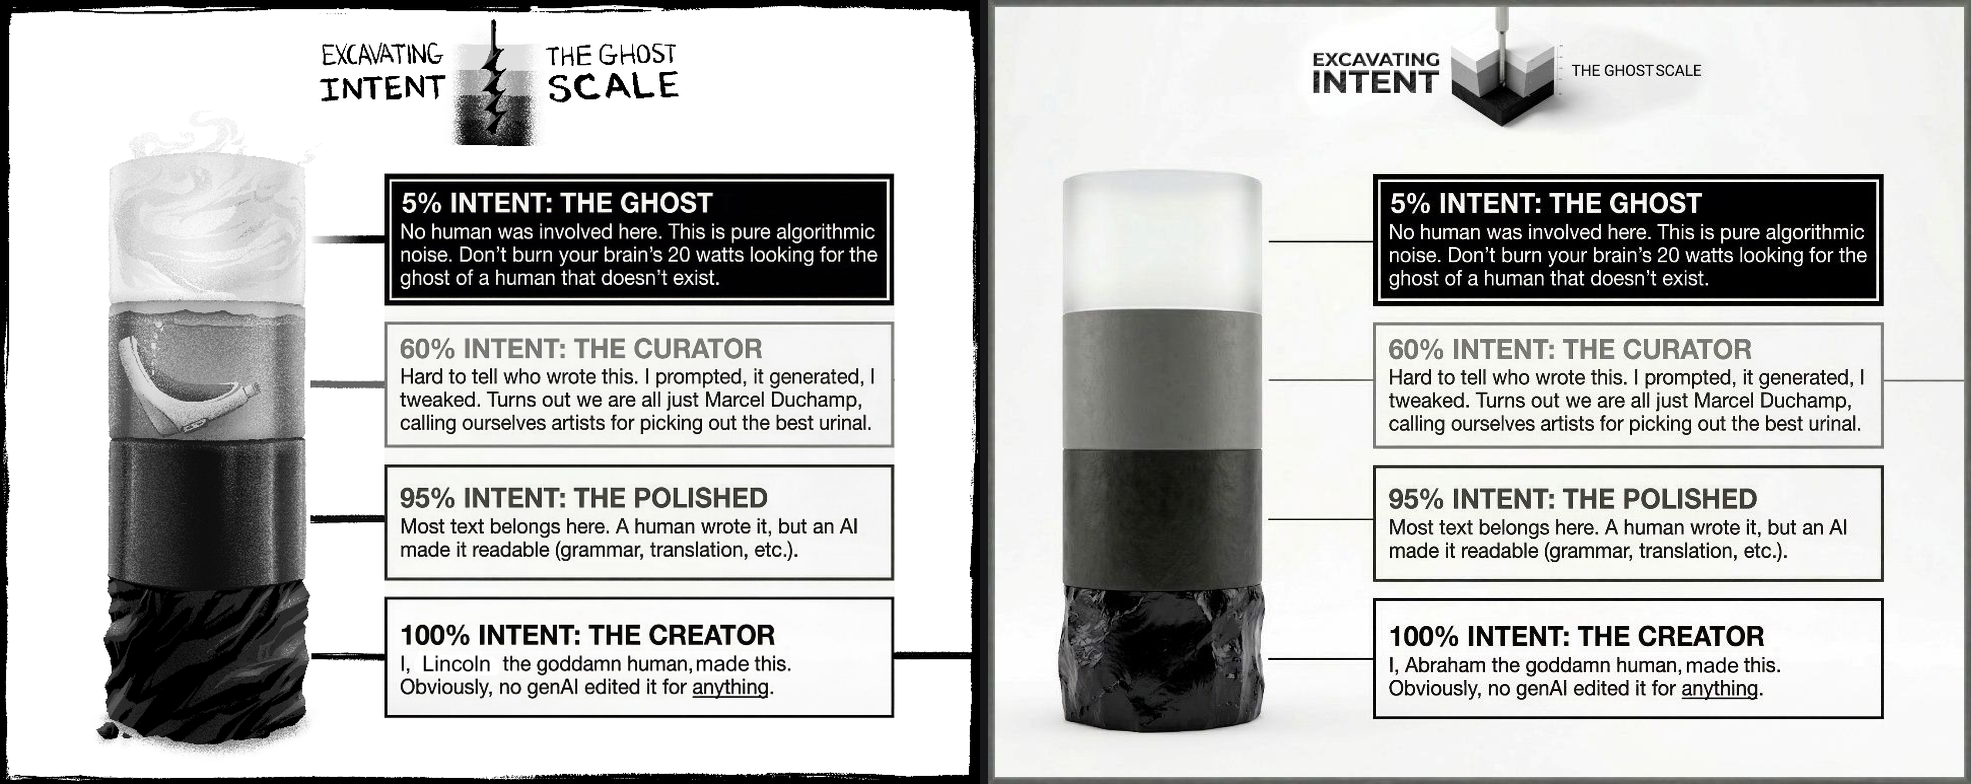
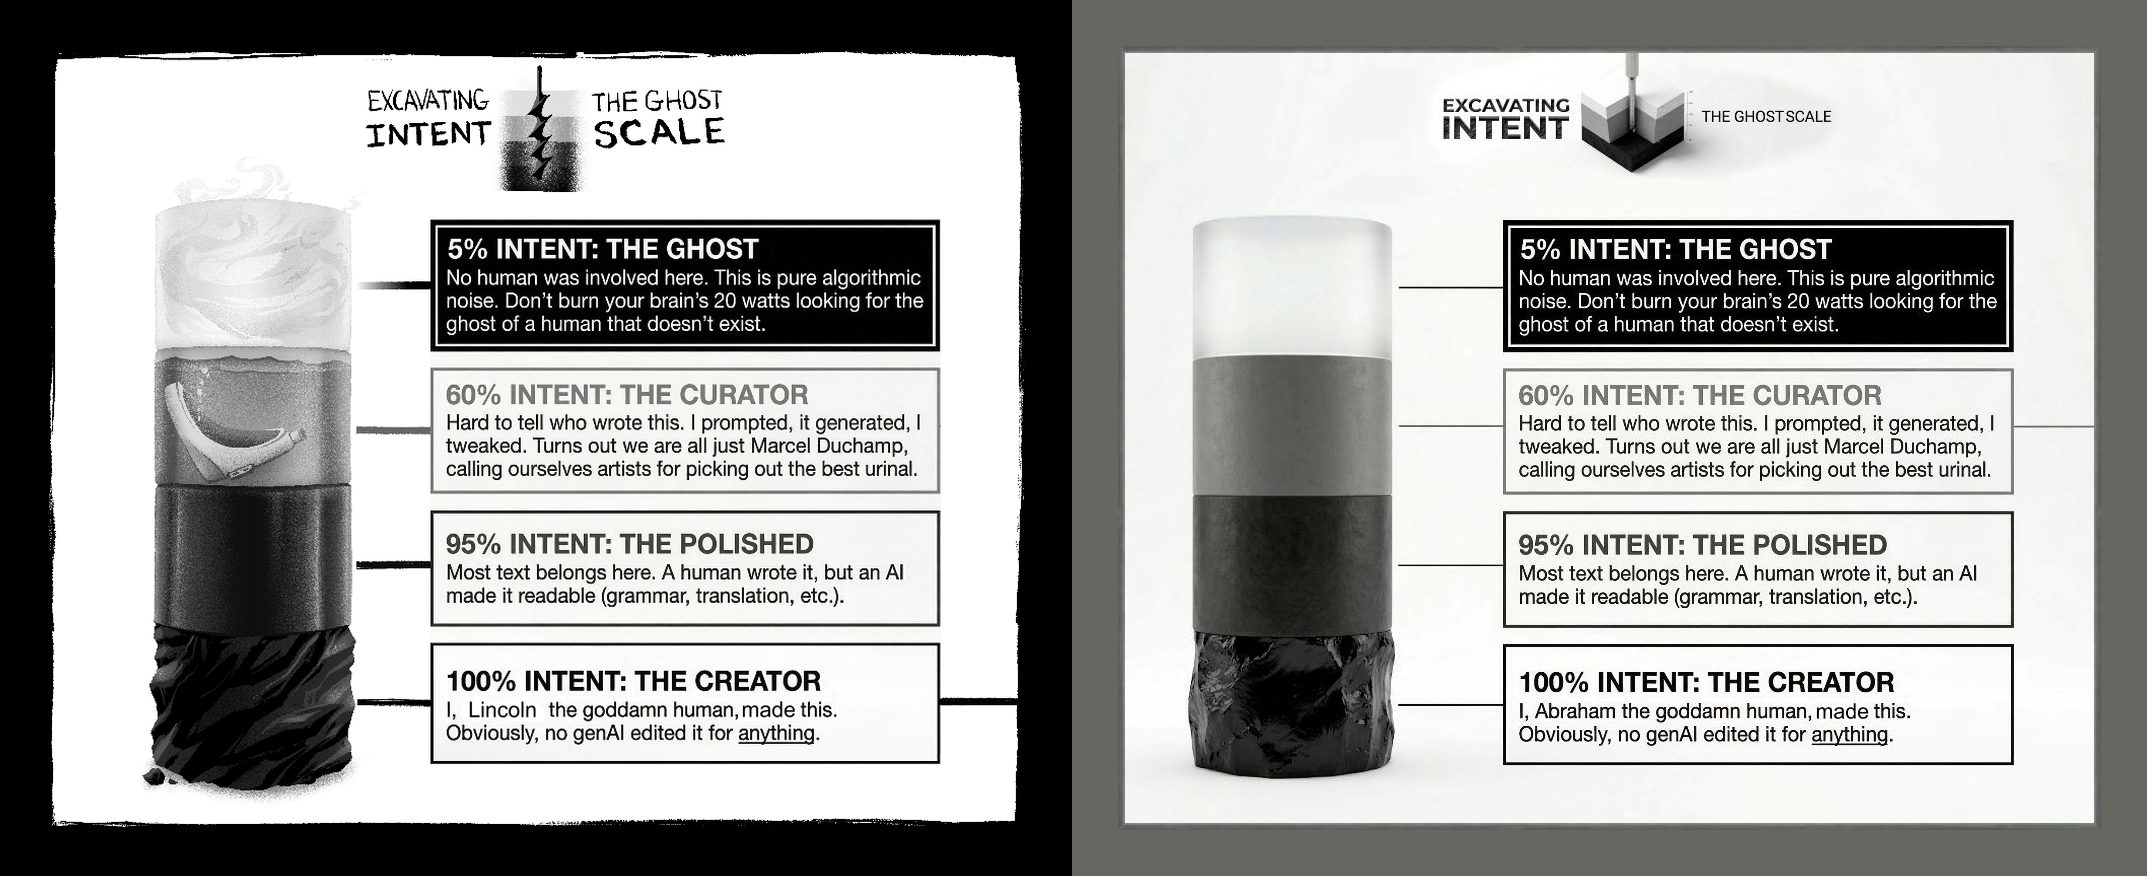
Thicker frames on the Ghost Scale pair, and point the citation at main
Black around the drawn panel, grey around the rendered one, both at the same
thickness because the sources are scaled to a common content height BEFORE the
borders go on. They meet in the middle with no gutter, so black against grey is
itself the division.

diff --git a/scripts/make_ghost_scale_pair.py b/scripts/make_ghost_scale_pair.py
@@ -25,34 +25,50 @@ LEFT = FIG / "Ghostscale_creator.png"      # 100% intent, drawn by a person
 RIGHT = FIG / "Ghostscale_curator.jpeg"    # 60% intent, rendered by a machine
 OUT = FIG / "ghost_scale_pair.png"
 
-GUTTER = 8          # a thin seam so the two panels do not appear to be one image
-SEAM = (24, 24, 26)  # near-black, so it reads as a division rather than as background
+BORDER = 46             # thick enough that the two tones are the first thing you see
+BLACK = (0, 0, 0)       # the drawn panel: 100% intent
+GREY = (101, 104, 97)   # the rendered panel, sampled from its own existing edge
 
 
 def main() -> None:
     left = Image.open(LEFT).convert("RGB")
     right = Image.open(RIGHT).convert("RGB")
 
+    # Scale to a common CONTENT height first, so the two borders come out the same thickness.
+    # Bordering first and scaling after would make one frame visibly thinner than the other.
     height = max(left.height, right.height)
 
     def scaled(im: Image.Image) -> Image.Image:
         if im.height == height:
             return im
-        w = round(im.width * height / im.height)
-        return im.resize((w, height), Image.LANCZOS)
+        return im.resize((round(im.width * height / im.height), height), Image.LANCZOS)
 
     left, right = scaled(left), scaled(right)
-    canvas = Image.new("RGB", (left.width + GUTTER + right.width, height), SEAM)
+
+    def framed(im: Image.Image, colour) -> Image.Image:
+        out = Image.new("RGB", (im.width + 2 * BORDER, im.height + 2 * BORDER), colour)
+        out.paste(im, (BORDER, BORDER))
+        return out
+
+    left, right = framed(left, BLACK), framed(right, GREY)
+
+    # No gutter. The two frames meet, so black against grey IS the division, which is the whole
+    # point of giving them different border tones in the first place.
+    canvas = Image.new("RGB", (left.width + right.width, left.height), BLACK)
     canvas.paste(left, (0, 0))
-    canvas.paste(right, (left.width + GUTTER, 0))
+    canvas.paste(right, (left.width, 0))
     canvas.save(OUT)
 
     px = canvas.convert("RGB")
-    corners = [px.getpixel(p) for p in
-               ((0, 0), (canvas.width - 1, 0), (0, height - 1), (canvas.width - 1, height - 1))]
-    print(f"wrote {OUT.relative_to(REPO)}  {canvas.size}")
-    print(f"  corner tones: {corners}")
-    assert all(sum(c) < 400 for c in corners[:1]), "left edge should be dark"
+    corners = {"top-left": px.getpixel((0, 0)),
+               "top-right": px.getpixel((canvas.width - 1, 0)),
+               "bottom-left": px.getpixel((0, canvas.height - 1)),
+               "bottom-right": px.getpixel((canvas.width - 1, canvas.height - 1))}
+    print(f"wrote {OUT.relative_to(REPO)}  {canvas.size}  border {BORDER}px")
+    for k, v in corners.items():
+        print(f"  {k:<13} {v}")
+    assert corners["top-left"] == BLACK, "the drawn panel must be framed in black"
+    assert corners["top-right"] == GREY, "the rendered panel must be framed in grey"
 
 
 if __name__ == "__main__":
